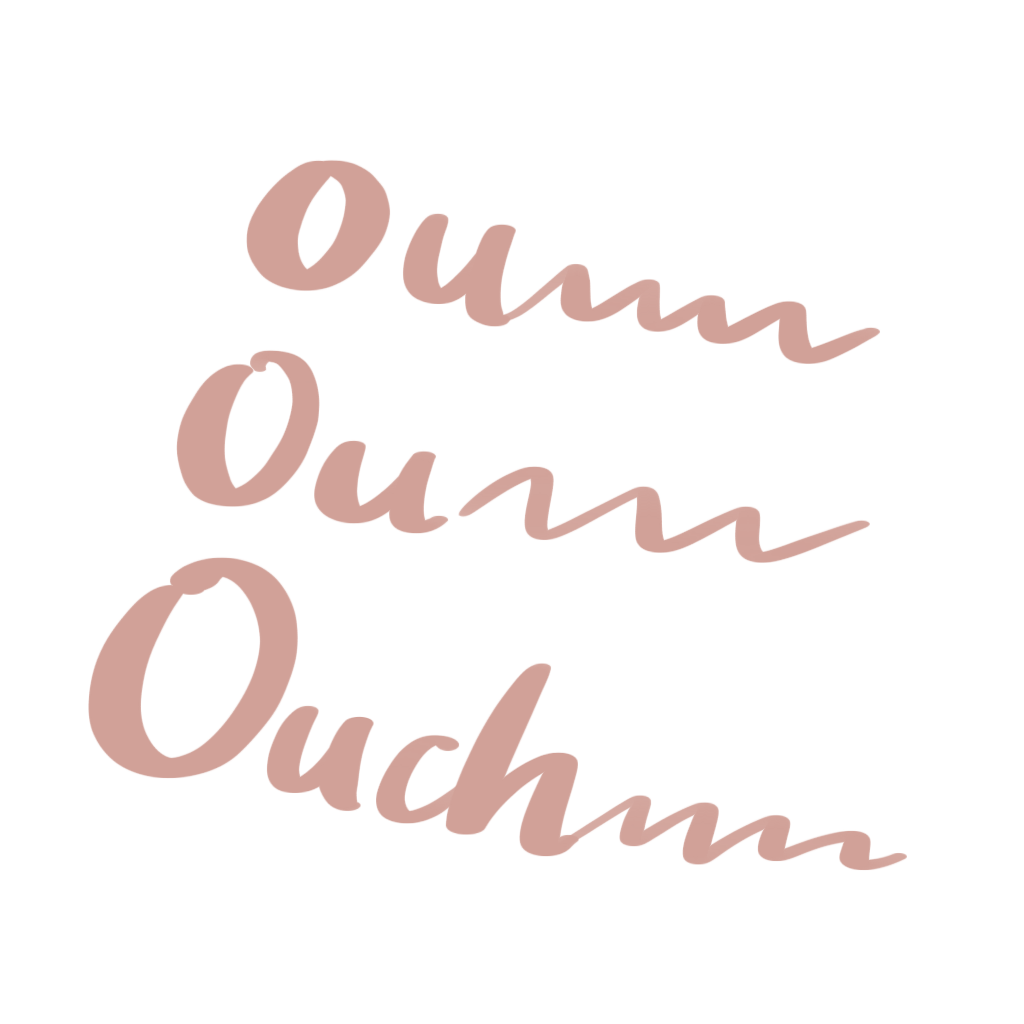
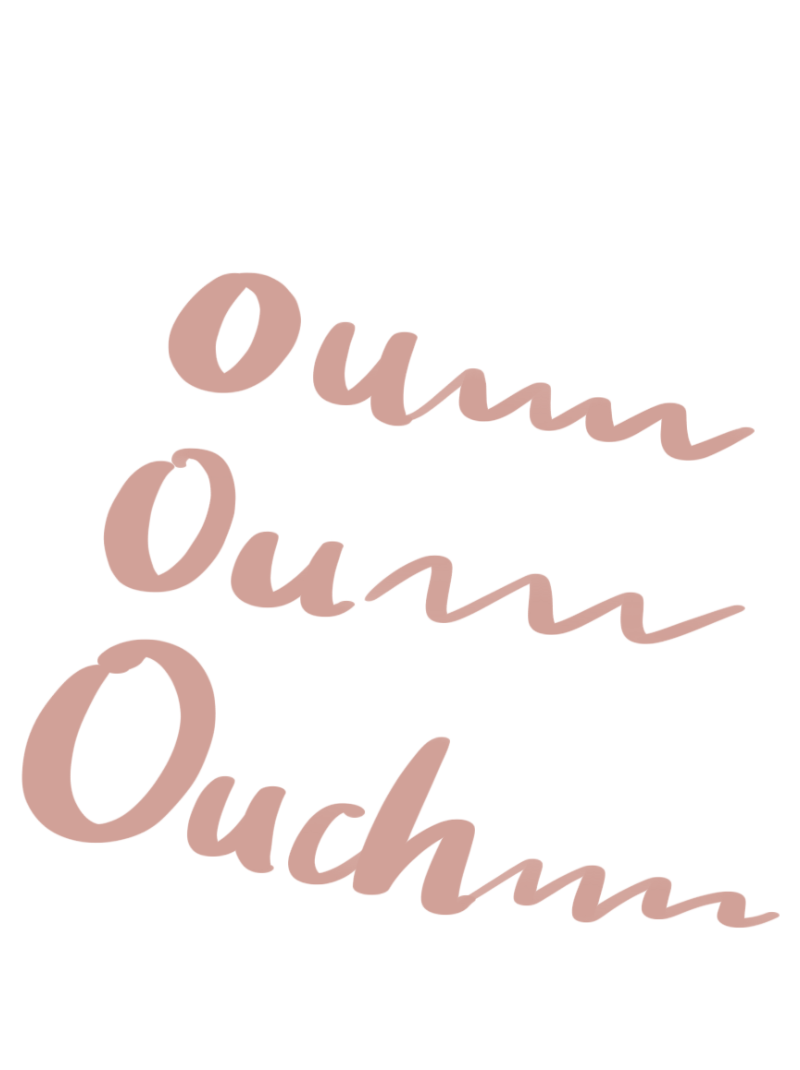
linear animation ready. no scroll interation yet.

Changed region(s): [[0.0312, 0.1562, 0.9688, 0.875]]

diff --git a/avocado-story/avocado-story.js b/avocado-story/avocado-story.js
@@ -1,127 +1,77 @@
-let masterTimeline = gsap.timeline();
+gsap.set('.scene',{ 
+  backgroundColor: 'transparent', 
+  position: 'absolute',
+  top: () => {
+    gsap.utils.toArray('.scene').forEach((item, i) => {
+      gsap.set(item, {top: `${gsap.utils.clamp(0, 1, i) * 100}vh`})
+    })
+  }
+});
 
-const initialization = () => {
-  // Initialize a bunch of CSS properties to prepare for scoll magic!
-  gsap.set(".narration", {opacity: 0});
+gsap.set('.content-wrapper', {
+  height: window.innerHeight,
+  overflow: 'hidden',
+  backgroundColor: '#1196e8'
+});
 
-  gsap.set(document.querySelectorAll(".scene"), {
-    height: '100vh',
-    backgroundColor: 'transparent',
-    display: 'block'
-  })
+gsap.set(['#s4 img'], {opacity: 0})
 
-  gsap.set('#s4 img', {
-    width: "auto",
-    position: "absolute",
-    left: "50%",
-    transform: "translateX(-50%",
-    opacity: 0
-  })
+const stageColors = ['#0a49b3', '#000', '#b7e823', '#eee1df', "#eeeedf", '#6e9a79', '#07143c'];
 
-  gsap.set('#s4 img:first-child', {opacity: 1})
+let tl = gsap.timeline()
 
-  gsap.set('#s5', {opacity: 0})
-}
+// scene 0
+tl.to(['#s0 .content > img', '#s0 .content > h1'], {y: -100, opacity: 0, stagger: 0.1, delay: 1})
+  .to('#s0 .narration', {y: -300, opacity: 1, duration: 2.3}) 
+  .to('.content-wrapper', { backgroundColor: stageColors[0], duration: 2.3}, "<") 
+  .to('#s0 .narration', {y: -500, opacity: 0, duration:1}, ">")
+  .to('#cloud1', {y: "-30%", x: '-30%', opacity: 0.4, duration:1}, "<")
+  .to('#cloud2', {y: "-20%", x: '30%', opacity: 0.3, duration:1}, "<");
 
-const scene0 = () => {
-  let tl = gsap.timeline({
-    scrollTrigger: {
-      trigger: "#s0",
-      scrub: 1,
-      pin: ".content-wrapper",
-      pinSpacing: false,
-    }
-  });
+// scene 1
+tl.to('#s1', {top: '50%', y: '-50%'})
+  .to('.content-wrapper', {backgroundColor: stageColors[1]}, "<")
+  .from('#s1-lamp', {'--clip': "0%", duration: 1}, "<0.5")
+  .to('#s1-plant', {x: "-15%", duration: 1}, "<")
+  .from('#s1-speech1', {opacity: 0, top: 20, duration: 2}, "<")
+  .from('#s1-speech2', {opacity: 0, top: 20, duration: 2}, "<0.5")
+  .to('#s1', {y: '-100vh', opacity: 0, delay: 2})
+  .to(['#cloud1', '#cloud2'], {y: "-100%", opacity: 0}, "<");
 
-  tl.to(['#s0 .content > img', '#s0 .content > h1'], {y: -100, opacity: 0, stagger: 0.1})
-    .to('#s0 .content > p', { keyframes:[
-                                {y: -300, opacity: 1, duration: 0.5, ease: "power2.inOut"},
-                                {y: -500, opacity: 0, duration:0.1}]}, "<0.3")
-    .to('.content-wrapper', { backgroundColor: '#0a49b3', ease: "power1.inOut"}, "<")
-    .to('#cloud1', {y: "-30%", x: '-30%', opacity: 0.4, ease: "power1.inOut"}, "<")
-    .to('#cloud2', {y: "-40%", x: '30%', opacity: 0.3, ease: "power1.inOut"}, "<");
+// scene 2
+tl.to('.content-wrapper', {backgroundColor: stageColors[2]}, "<")
+  .to('#s2', {top: '50%', y: '-50%', duration: 0.2}, "<")
+  .to('#s2', {backgroundPositionY: "-260px", duration: 0.3}, "<0.2")
+  .to('#s2', {opacity: 0}, ">1.5");
 
-  return tl;
-}
+// scene 3
+tl.to('.content-wrapper', {backgroundColor: stageColors[3]}, ">")
+  .to('#s3', {top: '50%', y:"-50%"})
+  .to('#s3', {opacity: 0, y: "-100%"}, ">1.5");
 
-const scene1 = () => {
-  let tl = gsap.timeline({
-    scrollTrigger: {
-      trigger: '#s1',
-      scrub: 1,
-      start: 'top 70%',
-      end: 'bottom top',
-      markers: true
-    }
-  });
+// scene 4
+tl.to('.content-wrapper', {backgroundColor: stageColors[4]}, ">")
+  .to('#s4', {top: '50%', y: '-50%', duration: 0.2}, "<")
+  .to('#s4 img', { keyframes: [{opacity: 1, duration: 1.5}, {opacity: 0, duration: 0.7}], 
+                  stagger: 1.5}, "<");
 
-  tl.to('.content-wrapper', { backgroundColor: '#000'}) // Think about it: should this tween go to the previous scene, and be a keyframe instead?
-    .from('#s1-lamp', {'--clip': "0%"}, "<")
-    .from('#s1-speech1', {opacity: 0, top: 20, ease: "power1.inOut"}, "<")
-    .from('#s1-speech2', {opacity: 0, top: 20, ease: "power1.inOut", delay: 0.1}, "<")
-    .to('#s1', {y: "-70%", ease: "none"}, "<")
-    .to('#s1-plant', {x: "-15%"}, "<")
+// scene 5 - no background color change between s4 & 5
+tl.to('#s5', {top: '50%', y: '-50%'}, ">")
+  .to('#s5', {opacity: 0, y: "-100%"}, ">2");
 
-  return tl;
-};
+// scene 6
+tl.to('.content-wrapper', {backgroundColor: stageColors[5]}, ">")
+  .to('#s6', {top: '50%', y: '-50%'})
+  .from('#s6-speech1', {opacity: 0, top: 20, duration: 2}, "<")
+  .from('#s6-speech2', {opacity: 0, top: 20, duration: 2}, "<0.5")
+  .to('#s6', {opacity: 0, y: '-100%'}, '>2');
 
-const scene2 = () => {
-  let tl = gsap.timeline({
-    scrollTrigger: {
-      trigger: '#s2',
-      scrub: 1,
-    }
-  });
-
-  tl.to('.content-wrapper', {backgroundColor: "#b7e823"})
-    .to('#s2 img', {y: "300"}, ">")
-
-    return tl;
-}
-
-const scene3 = () => {
-  let tl = gsap.timeline({
-    scrollTrigger: {
-      trigger: '#s3',
-      scrub: 1
-    }
-  });
-
-  tl.to('#s3', {y:"-500", duration: 0.1})
-    .to('#s3 img', {y: "500"},">")  
-    .to('.content-wrapper', {backgroundColor: "#eee1df"}, "<")
-    
-
-    return tl;
-}
-
-const scene4 = () => {
-  let tl = gsap.timeline({
-    scrollTrigger: {
-      trigger: '#s4',
-      scrub: 1,
-    }
-  });
-
-  tl.to('.content-wrapper', {backgroundColor: "#eeeedf"})
-    .to('#s4 img', {opacity: "0.5", stagger: 0.2},"<")
-
-    return tl;
-}
-
-
-
-const scene5 = document.querySelector('#s5');
-const scene6 = document.querySelector("#s6");
-const scene7 = document.querySelector("#s7");
-
-
-
-
-masterTimeline
-  .add(initialization())
-  .add(scene0())
-  .add(scene1())
-  .add(scene2())
-  .add(scene3())
-  .add(scene4());
+// scene 7
+tl.to('.content-wrapper', {backgroundColor: stageColors[6]}, ">")
+  .set('#s7', {top: '0'}, "<")
+  .fromTo('#moon', {opacity: 0, scale: 3.5, '--inset': '0%'}, 
+                   {opacity: 1, scale: 1.5, transformOrigin: '50% 50%', '--inset': '30%', duration: 2}, "<")
+  .fromTo('#baby', {bottom: '-800', scale: 0.5, opacity: 0.3},
+                   {bottom: 0, scale: 1, opacity: 1, transformOrigin: '50% 100%', duration: 1.2}, "<0.8")
+  .fromTo('#s7 .narration', {opacity: 0, scale: 1},
+                            {opacity: 1, scale: 1}, ">")

diff --git a/avocado-story/avocado-story.css b/avocado-story/avocado-story.css
@@ -87,27 +87,28 @@ h1 {
     color: white;
 }
 
-.layered-img {
-    position: relative;
-}
-
-.layered-img img {
+#s4 .panel img {
     position: absolute;
     left: 50%;
-    top: 0;
-    transform: translateX(-50%);
+    top: 50%;
+    transform: translate(-50%, -50%);
+    width: auto;
+    max-width: 800px;
+    height: 100vh;
+    max-height: 1070px;
 }
 
-.panel {
+.panel { /* For layering content on top of a background image*/
     position: relative;
+    margin: 0 auto;
     width: 100vw;
     max-width: 800px;
-    margin: 0 auto;
     height: 100vh;
+    max-height: 1070px;
 }
 
-.panel-img {
-    width: 100%;
+.panel-img { /* For images responsive scaling */
+    width: auto;
     max-width: 800px;
     max-height: 100vh;
 }
@@ -151,7 +152,7 @@ h1 {
     background-image: url("./assets/Ouch.png");
     background-repeat: no-repeat;
     background-size: contain;
-    background-position: 50% -150px;
+    background-position: 50% 0px;
 }
 
 #s3 {
@@ -161,20 +162,10 @@ h1 {
     justify-content: center;
 }
 
-#s4 {
-    background-color: #eeeedf;
-    display: flex;
-    flex-wrap: wrap;
-    border: 1px black dashed;
-}
-
-#s4 img {
-    width: 25%;
-}
-
-#s5 {
+#s4, #s5 {
     background-color: #eeeedf;
 }
+
 #s6 {
     background-color: #6e9a79;
 }
@@ -199,10 +190,12 @@ h1 {
 
 #s7 {
     background-color: #07143c;
+    height: 100vh;
 }
 
 
 #moon {
+    --inset: 30%;
     position: absolute;
     display: flex;
     align-items: center;
@@ -213,24 +206,15 @@ h1 {
     height: 85vmin;
     border-radius: 50%;
     left: 50%;
-    transform: translate(-50%, -30%);
-    clip-path: inset(30% 0 0 0);
+    transform: translate(-50%, calc(-1*var(--inset)));
+    clip-path: inset(var(--inset) 0 0 0);
 }
 
 #baby {
     position: absolute;
     bottom: 0;
-    max-height: 65%;
     left: 50%;
     transform: translateX(-50%);
-}
-
-
-footer {
-    width: 900px;
-    margin: 20px auto;
-    padding: 20px;
-    background: #f5f5f5;
 }
 
 /* Styles for screen width up to 800px */
@@ -243,17 +227,13 @@ footer {
         width: 80%;
     }
 
-    .panel-image {
+    .panel-img {
         width: 100%;
     }
 }
 
 /* Styles for screen width at least 1200px */
 @media (min-width: 1400px) {
-    body {
-        font-size: 24px;
-    }
-
     .content {
         width: 80vmin;
     }

diff --git a/avocado-story/index.html b/avocado-story/index.html
@@ -39,10 +39,12 @@
         </section>
 
         <section class="scene" id="s4">
-            <img src="./assets/scene2.act2.1.png" />
-            <img src="./assets/scene2.act2.2.png" />
-            <img src="./assets/scene2.act2.3.png" />
-            <img src="./assets/scene2.act2.4.jpg" />
+            <div class="panel">
+                <img src="./assets/scene2.act2.1.png" />
+                <img src="./assets/scene2.act2.2.png" />
+                <img src="./assets/scene2.act2.3.png" />
+                <img src="./assets/scene2.act2.4.jpg" />
+            </div>
         </section>
 
         <section class="scene" id="s5">
@@ -57,11 +59,11 @@
         </section>
 
         <section class="scene" id="s7">
-            <div class="panel">
+            <div>
                 <div id="moon">
                     <p class="narration">We are all glad you made it here!</p>
                 </div>
-                <img id="baby" src="./assets/scene4.baby.png" />                
+                <img class="panel-img" id="baby" src="./assets/scene4.baby.png" />                
             </div>
         </section>
     </div>
